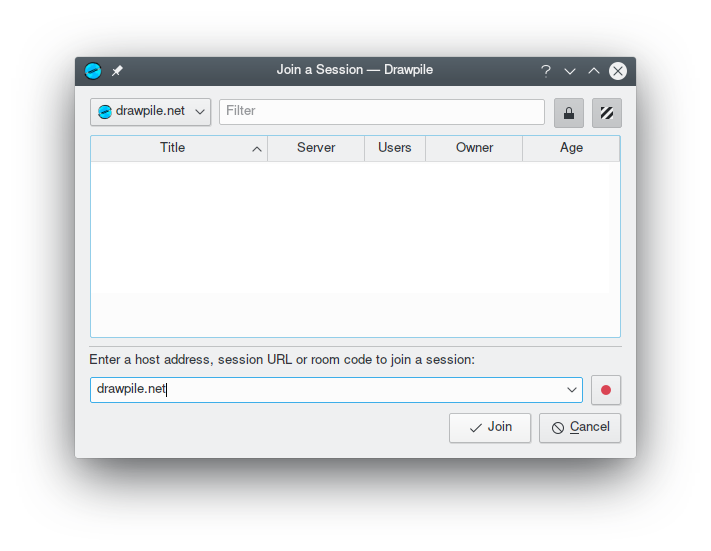
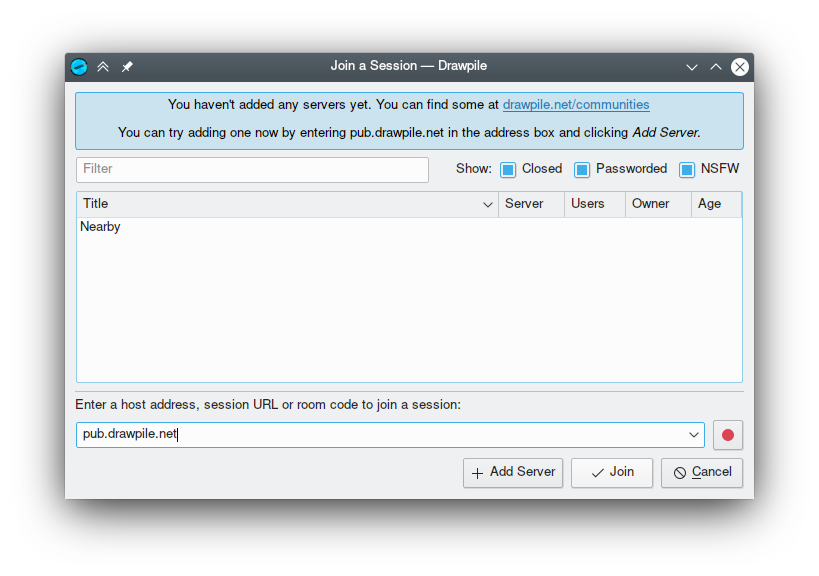
Update hosting and joining help pages

diff --git a/templates/pages/help/hosting.html b/templates/pages/help/hosting.html
@@ -26,6 +26,9 @@
 			<p>Try the "<strong>This computer</strong>" option. It will start a server built-in
 			to Drawpile itself. Note that if you list your session publicly, your IP address
 			will be visible in the listing.</p>
+			<p>If there are no options in the Listing box, you must add a list server first. You can
+			find servers at the <a href="/communities/">communities page</a>. Alternatively, you can share
+			your session address directly with your friend.</p>
 			<p>A session hosted this way <em>will end when you close Drawpile</em>.</p>
 			<p>If your friends are in the same local network (e.g. connected to the same Wifi hotspot,)
 			they can connect to you using your local IP address. Your server will appear in the
@@ -38,16 +41,15 @@
 			See below for the <em>Dealing with firewalls</em> section for tips.</p>
 			<p>If you're not able to run your own server, you can host your session on a public server.
 			Use the <strong>remote</strong> server option and enter the address of a public server, such
-			as <kbd>drawpile.net</kbd></p>
+			as <kbd>pub.drawpile.net</kbd></p>
 		</div>
 	</div>
 	<div class="tile is-parent is-vertical">
 		<div class="tile is-child box">
 			<h4>I want to make a long running session with people coming and going</h4>
-			<p>Use a <strong>remote</strong> server. A public free-for-all server is provided
-			at <kbd>drawpile.net</kbd>, but depending on the time of the day, might be full.</p>
+			<p>Use a <strong>remote</strong> server. Find a suitable server to host on from the <a href="/communities/">communities page</a>.
 			<p>When using public servers, not all features might be enabled by the server administrator.
-			For example, at drawpile.net, sessions will automatically end when the last user logs out.</p>
+			For example, at <em>pub.drawpile.net</em>, sessions will automatically end when the last user logs out.</p>
 		</div>
 		<div class="tile is-child box">
 			<h4>I want to set up my <em>own</em> server!</h4>
@@ -56,6 +58,7 @@
 			and who gets to hosts sessions.</p>
 			<p>Take a look at the <a href="/help/server-howto/">Server HOWTO</a> for
 			instructions on how to set up your own server on a cheap cloud VPS.</p>
+			<p>If you wish, you can submit your server for inclusion on the communities page.</p>
 		</div>
 	</div>
 </div>
@@ -71,18 +74,19 @@ If you're hosting a session that's open to the public, you can check the **List 
 to announce the session at a list server. Listing a session also gives you a *room code*: a five
 letter code that works like a short URL. If you're hosting a private session but still want to
 make use of the room code feature, select the **Private** listing type. This way, the session
-is not shown in the public list, but you still get the room code.
+is not shown in the public list, but you still get the room code. Note that sessions listed at servers
+like <em>pub.drawpile.net</em> are automatically listed. Typically, you will only need to manually list
+a session if you're hosting it somewhere else than the community's home server.</p>
 
-Next, you must decide where to host the session. If you select the **this computer** option, the server
+You must decide where to host the session. If you select the **this computer** option, the server
 will run on your computer and other users must connect to it directly. (It also means that when you
 quit Drawpile, the session ends.) This is best for sessions with just a few users at most,
 and when every participant is on the same local network.
 Using the built-in server means you may need to configure your firewall to allow incoming
 connections. See more below.
 
-Another option is to host on an external server. A [public server](http://pub.drawpile.net/) is hosted here
-on drawpile.net you can use: just enter `drawpile.net` in the **remote** option box. See also
-the [dedicated server](/help/server/) page on how to set up your own dedicated server.
+Another option is to host on an external server. You can find public servers on the [communities](/communities/) page.
+If you're interested in setting up your own dedicated server, see the [Server HOWTO](/help/server-howto/) for more information.
 
 Click ***Host*** to start the session.
 

diff --git a/templates/pages/help/joining.html b/templates/pages/help/joining.html
@@ -14,11 +14,9 @@
 
 To join a session, select the **Join** action from the *Session* menu.
 
-You will see a list of sessions announced at a listing server (drawpile.net) or a list of servers running
-on the local network (Nearby.)
-
-Click on the lock button to show password protected sessions. The second button shows sessions that
-have been tagged as NSFW.
+You will see a list of sessions from servers you have added, as well as servers running on the local network (Nearby) if you have Bonjour installed.
+You can find servers to add by visiting the [communities](/communities/) page. Enter the server's address and click the <em>Add Server</em> button
+to add it to the list. Note that not all servers provide the listing functionality.
 
 You can enter a whole session URL, a server address or a room code to join.
 
